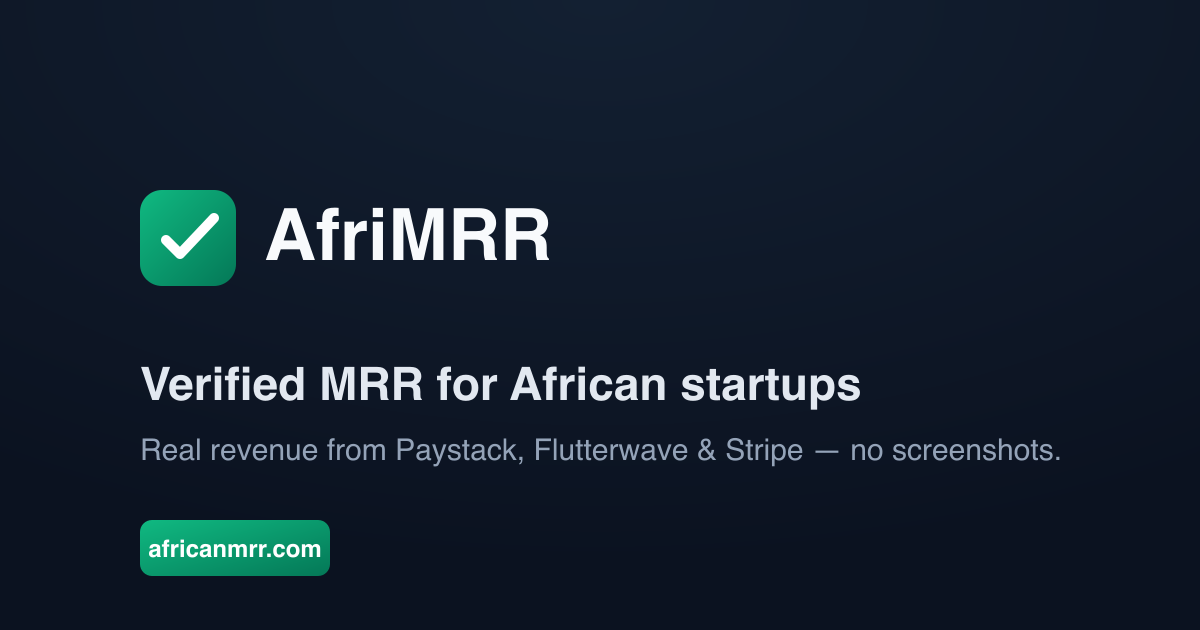
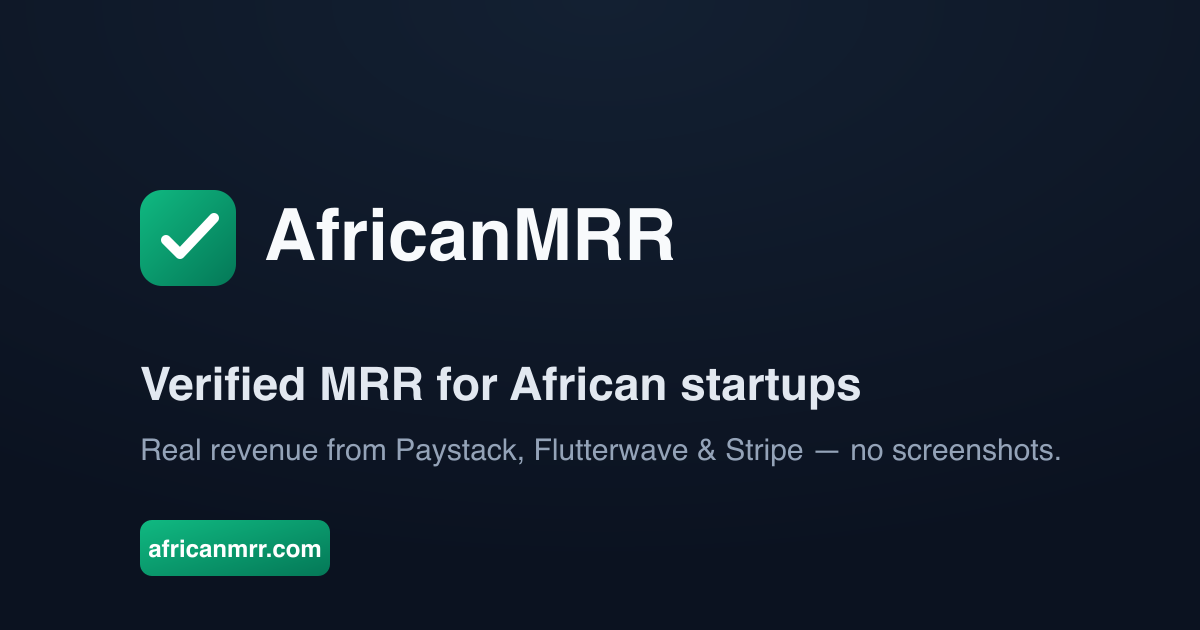
Rebrand user-facing name to AfricanMRR (internal ids unchanged)

Changed region(s): [[0.3083, 0.3317, 0.5858, 0.4222]]

diff --git a/resources/js/layouts/PublicLayout.vue b/resources/js/layouts/PublicLayout.vue
@@ -35,7 +35,7 @@ const isActive = (href: string) => current.value === href || current.value.start
                         <span class="flex size-8 items-center justify-center rounded-lg bg-emerald-600 text-white">
                             <BadgeCheck class="size-5" />
                         </span>
-                        <span class="text-lg tracking-tight">AfriMRR</span>
+                        <span class="text-lg tracking-tight">AfricanMRR</span>
                     </Link>
                     <nav class="hidden items-center gap-1 md:flex">
                         <Link
@@ -110,7 +110,7 @@ const isActive = (href: string) => current.value === href || current.value.start
                             <span class="flex size-7 items-center justify-center rounded-lg bg-emerald-600 text-white">
                                 <BadgeCheck class="size-4" />
                             </span>
-                            AfriMRR
+                            AfricanMRR
                         </div>
                         <p class="mt-3 text-sm text-muted-foreground">
                             Verified revenue for African startups. MRR pulled straight from Paystack,
@@ -139,7 +139,8 @@ const isActive = (href: string) => current.value === href || current.value.start
                     </div>
                 </div>
                 <p class="mt-8 text-xs text-muted-foreground">
-                    © {{ new Date().getFullYear() }} AfriMRR. Revenue figures are verified via payment-provider APIs.
+                    © {{ new Date().getFullYear() }} AfricanMRR. Revenue figures are verified via payment-provider APIs.
+                    <span class="block sm:inline sm:before:content-['_·_']">AfricanMRR is a product of Steven Malog, Inc.</span>
                 </p>
             </div>
         </footer>

diff --git a/resources/js/pages/public/Legal.vue b/resources/js/pages/public/Legal.vue
@@ -14,9 +14,9 @@ const title = computed(() => (props.kind === 'terms' ? 'Terms of Service' : 'Pri
         <p class="mt-2 text-sm text-muted-foreground">Last updated {{ new Date().getFullYear() }}</p>
 
         <div v-if="kind === 'terms'" class="mt-8 space-y-4 text-sm text-muted-foreground">
-            <p>By using AfriMRR you agree to connect only payment-provider credentials you are authorized to use, and to display revenue figures that represent your own business.</p>
+            <p>By using AfricanMRR you agree to connect only payment-provider credentials you are authorized to use, and to display revenue figures that represent your own business.</p>
             <p>We provide verification on a best-effort basis using third-party provider APIs. Figures are informational and not financial advice or a guarantee of any kind.</p>
-            <p>Marketplace listings are between buyers and sellers directly; AfriMRR is not a party to any transaction and makes no warranty as to any sale.</p>
+            <p>Marketplace listings are between buyers and sellers directly; AfricanMRR is not a party to any transaction and makes no warranty as to any sale.</p>
             <p>We may suspend accounts that attempt to misrepresent revenue, abuse the API, or violate provider terms.</p>
         </div>
 

diff --git a/resources/js/pages/public/About.vue b/resources/js/pages/public/About.vue
@@ -5,7 +5,7 @@ import { Head, Link } from '@inertiajs/vue3';
 <template>
     <Head title="About" />
     <div class="mx-auto max-w-3xl px-4 py-16">
-        <h1 class="text-3xl font-extrabold tracking-tight">Why AfriMRR exists</h1>
+        <h1 class="text-3xl font-extrabold tracking-tight">Why AfricanMRR exists</h1>
         <div class="mt-6 space-y-4 text-muted-foreground">
             <p>
                 African founders build real, revenue-generating businesses every day — but the ecosystem
@@ -13,7 +13,7 @@ import { Head, Link } from '@inertiajs/vue3';
                 noise, and honest founders don't get the credit they've earned.
             </p>
             <p>
-                AfriMRR fixes that. We plug straight into the payment rails African startups actually use —
+                AfricanMRR fixes that. We plug straight into the payment rails African startups actually use —
                 Paystack, Flutterwave and Stripe — and turn live subscription data into a verified,
                 always-current MRR figure. No manual entry. No cheating.
             </p>

diff --git a/resources/js/pages/public/Developers.vue b/resources/js/pages/public/Developers.vue
@@ -30,7 +30,7 @@ function copy(text: string) {
     <div class="mx-auto max-w-4xl px-4 py-14">
         <h1 class="text-3xl font-extrabold tracking-tight">Developers</h1>
         <p class="mt-2 text-muted-foreground">
-            A public, no-auth JSON API and an MCP server over AfriMRR's verified-revenue data.
+            A public, no-auth JSON API and an MCP server over AfricanMRR's verified-revenue data.
         </p>
 
         <!-- REST API -->

diff --git a/app/Http/Controllers/Mcp/McpController.php b/app/Http/Controllers/Mcp/McpController.php
@@ -10,7 +10,7 @@ use Illuminate\Http\Request;
 
 /**
  * Minimal, stateless MCP (Model Context Protocol) server over streamable HTTP.
- * Speaks JSON-RPC 2.0. Exposes read-only tools over AfriMRR's public data.
+ * Speaks JSON-RPC 2.0. Exposes read-only tools over AfricanMRR's public data.
  */
 class McpController extends Controller
 {
@@ -35,7 +35,7 @@ class McpController extends Controller
     public function info(): JsonResponse
     {
         return response()->json([
-            'name' => 'AfriMRR MCP',
+            'name' => 'AfricanMRR MCP',
             'transport' => 'streamable-http',
             'endpoint' => url('/mcp'),
             'protocolVersion' => self::PROTOCOL,
@@ -62,7 +62,7 @@ class McpController extends Controller
             'initialize' => $this->result($id, [
                 'protocolVersion' => self::PROTOCOL,
                 'capabilities' => ['tools' => ['listChanged' => false]],
-                'serverInfo' => ['name' => 'AfriMRR', 'version' => '1.0.0'],
+                'serverInfo' => ['name' => 'AfricanMRR', 'version' => '1.0.0'],
                 'instructions' => 'Read-only access to verified MRR data for African startups.',
             ]),
             'ping' => $this->result($id, new \stdClass),

diff --git a/resources/views/app.blade.php b/resources/views/app.blade.php
@@ -39,12 +39,12 @@
         <link rel="canonical" href="{{ config('app.url') }}{{ request()->getPathInfo() }}">
         <meta property="og:type" content="website">
         <meta property="og:site_name" content="{{ config('app.name') }}">
-        <meta property="og:title" content="AfriMRR — Verified MRR for African startups">
+        <meta property="og:title" content="AfricanMRR — Verified MRR for African startups">
         <meta property="og:description" content="Real recurring revenue from Paystack, Flutterwave and Stripe. No screenshots, no vanity metrics.">
         <meta property="og:image" content="{{ config('app.url') }}/og-image.png">
         <meta property="og:url" content="{{ config('app.url') }}{{ request()->getPathInfo() }}">
         <meta name="twitter:card" content="summary_large_image">
-        <meta name="twitter:title" content="AfriMRR — Verified MRR for African startups">
+        <meta name="twitter:title" content="AfricanMRR — Verified MRR for African startups">
         <meta name="twitter:description" content="Real recurring revenue from Paystack, Flutterwave and Stripe. No screenshots.">
         <meta name="twitter:image" content="{{ config('app.url') }}/og-image.png">
 

diff --git a/database/seeders/DemoSeeder.php b/database/seeders/DemoSeeder.php
@@ -65,7 +65,7 @@ class DemoSeeder extends Seeder
                     'user_id' => $users[$founder]->id,
                     'name' => $name,
                     'tagline' => $this->tagline($cat),
-                    'description' => "{$name} is a demo startup showcasing verified MRR on AfriMRR.",
+                    'description' => "{$name} is a demo startup showcasing verified MRR on AfricanMRR.",
                     'website' => 'https://example.com',
                     'category' => $cat === 'marketplace' ? 'other' : $cat,
                     'country' => $country,

diff --git a/README.md b/README.md
@@ -1,4 +1,4 @@
-# AfriMRR
+# AfricanMRR
 
 **Verified MRR for African startups.** TrustMRR, but it plugs into the payment rails
 African founders actually use — Paystack, Flutterwave and Stripe.
